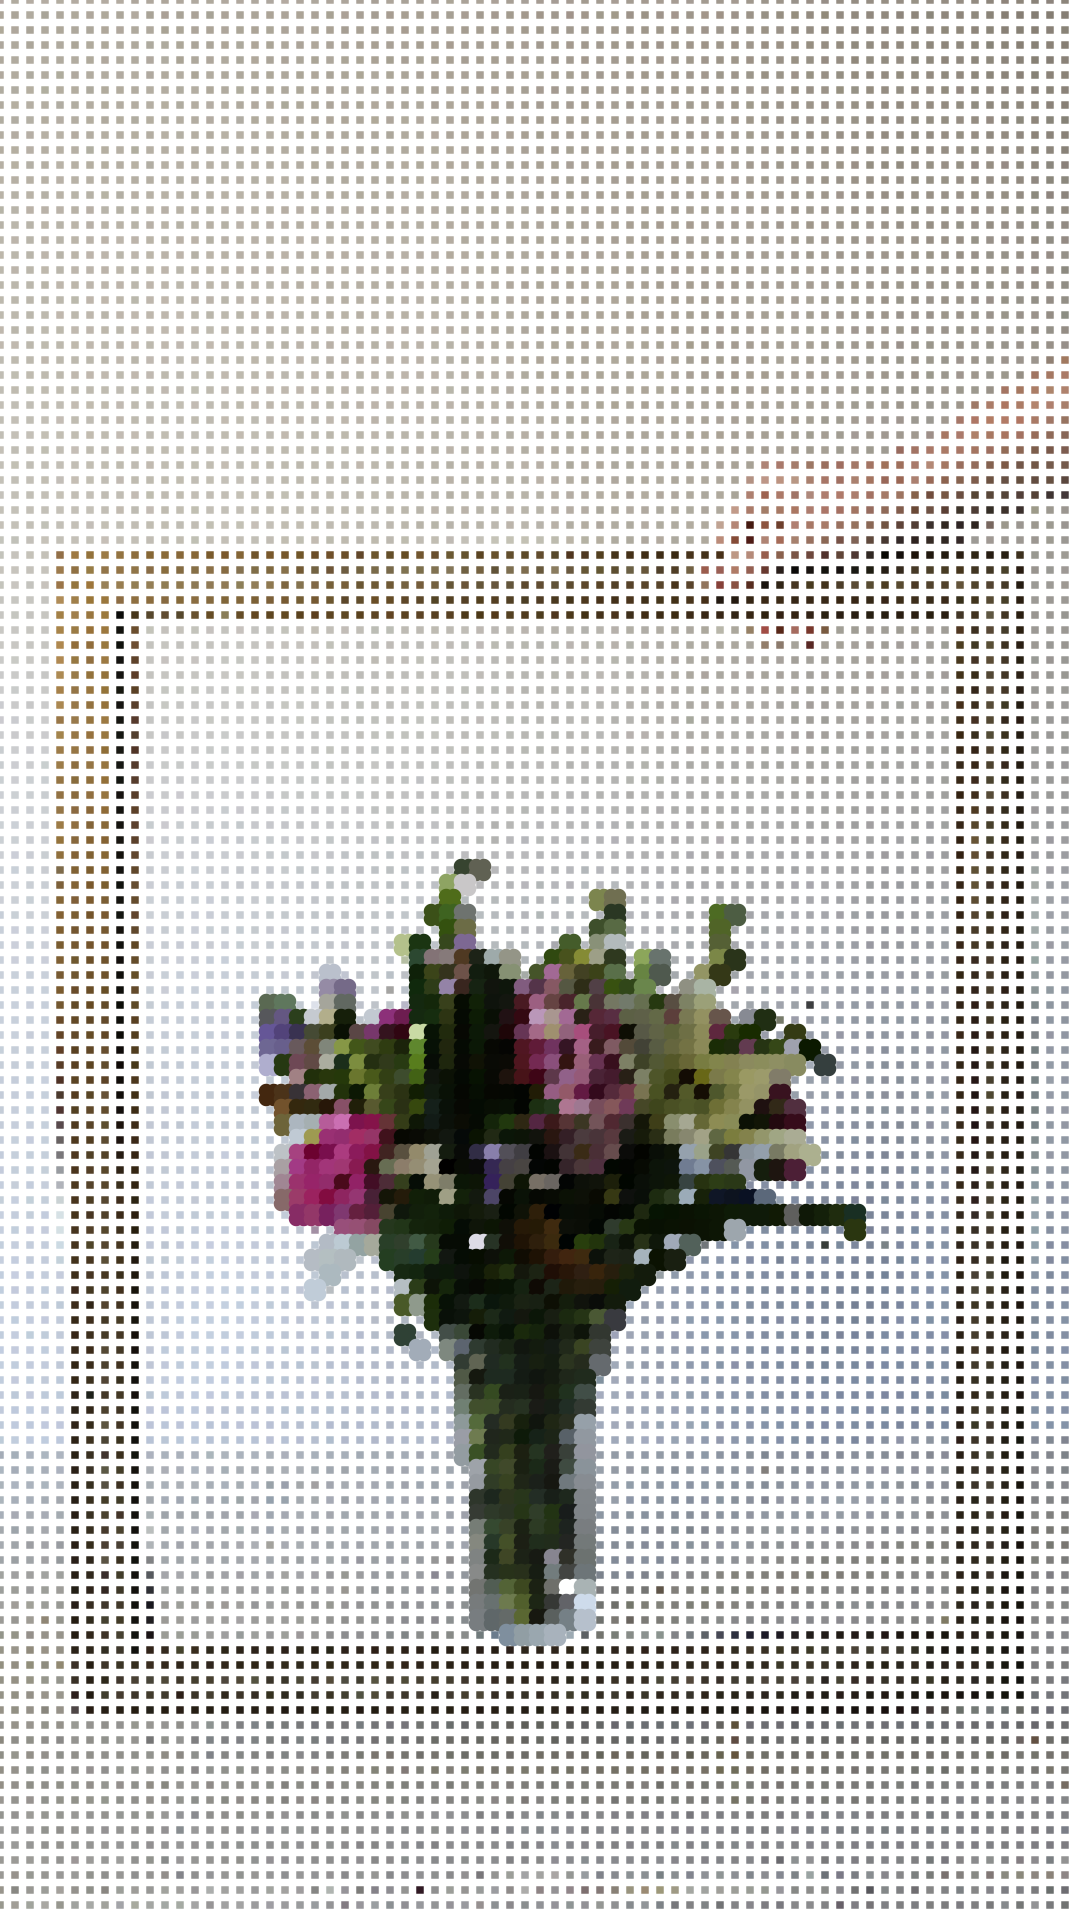
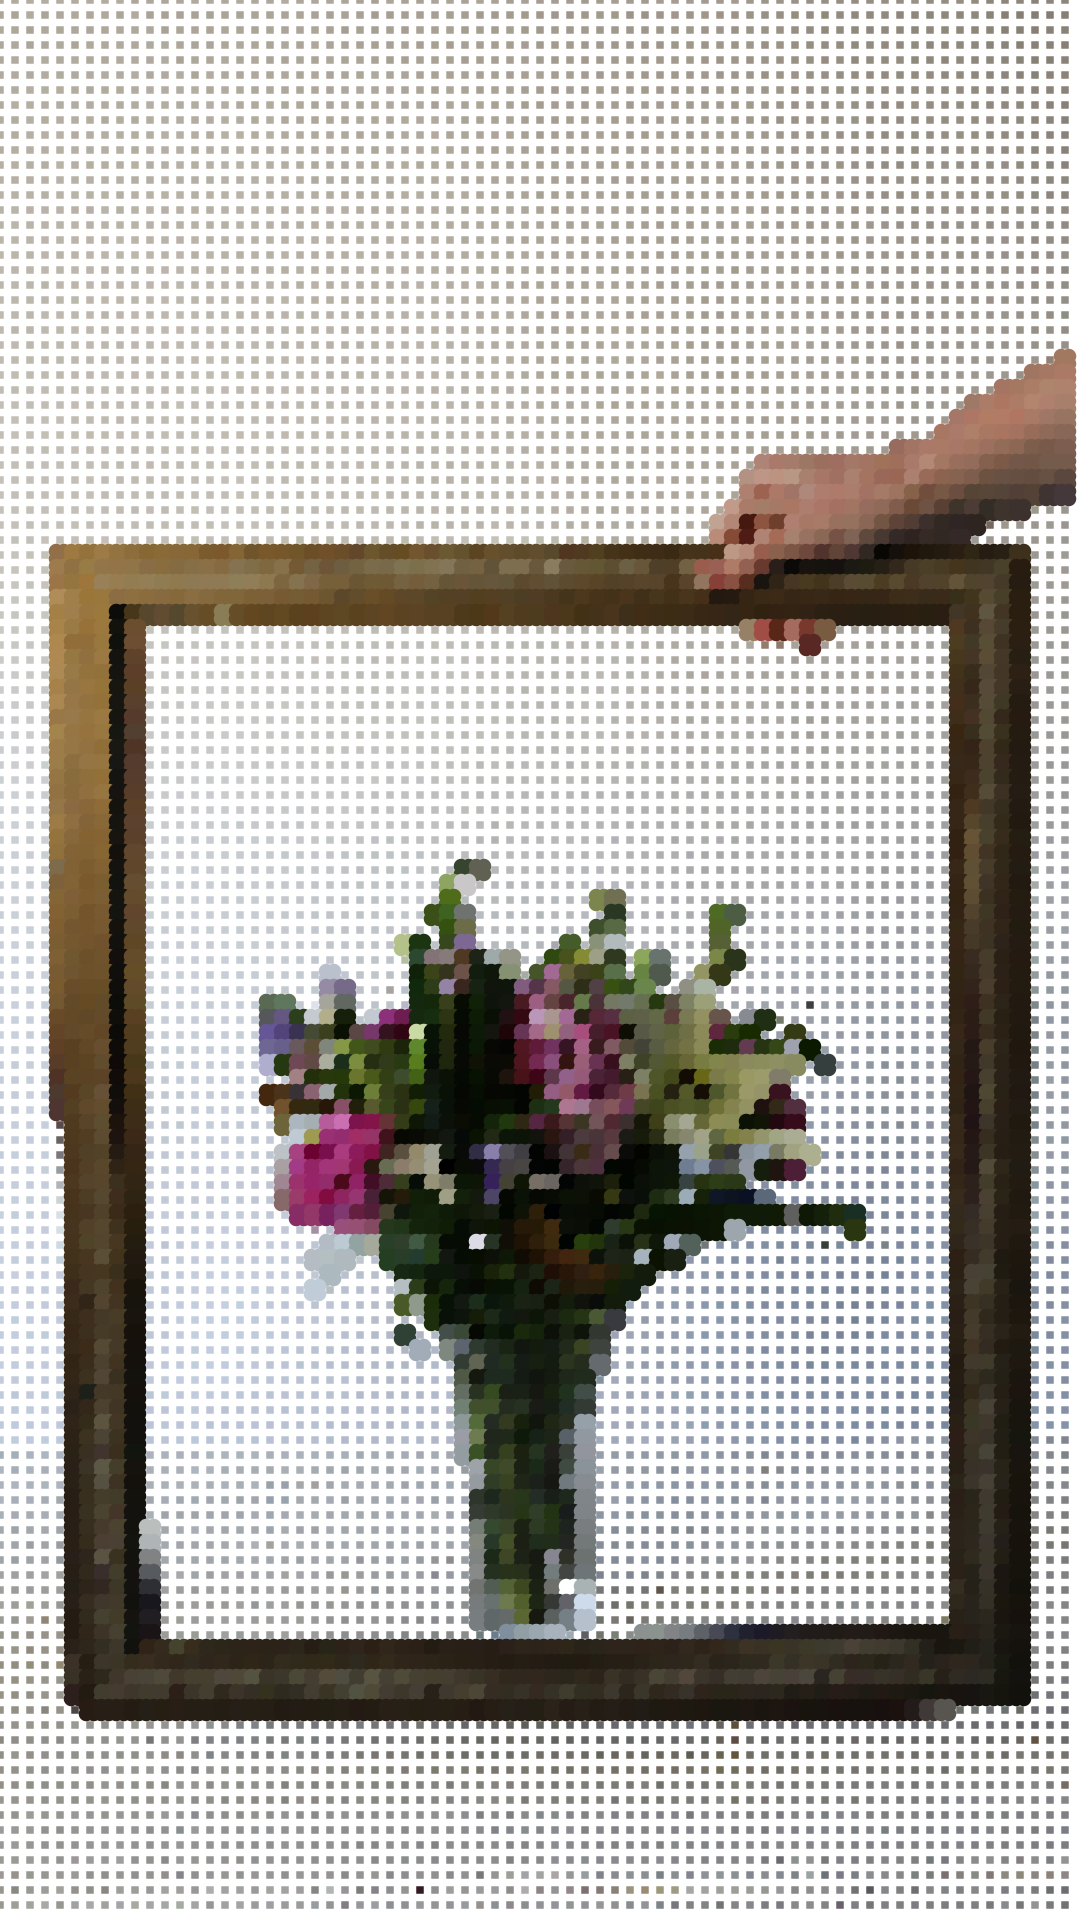
commiting changes

Changed region(s): [[0.0306, 0.1562, 1.0, 0.9062]]

diff --git a/sketch.js b/sketch.js
@@ -6,7 +6,7 @@ let dotsize = 15;
 
 function preload() {
   sourceImg = loadImage("input_3.jpg");
-  maskImg = loadImage("mask_4.png");
+  maskImg = loadImage("mask_5.png");
 }
 
 function setup () {
